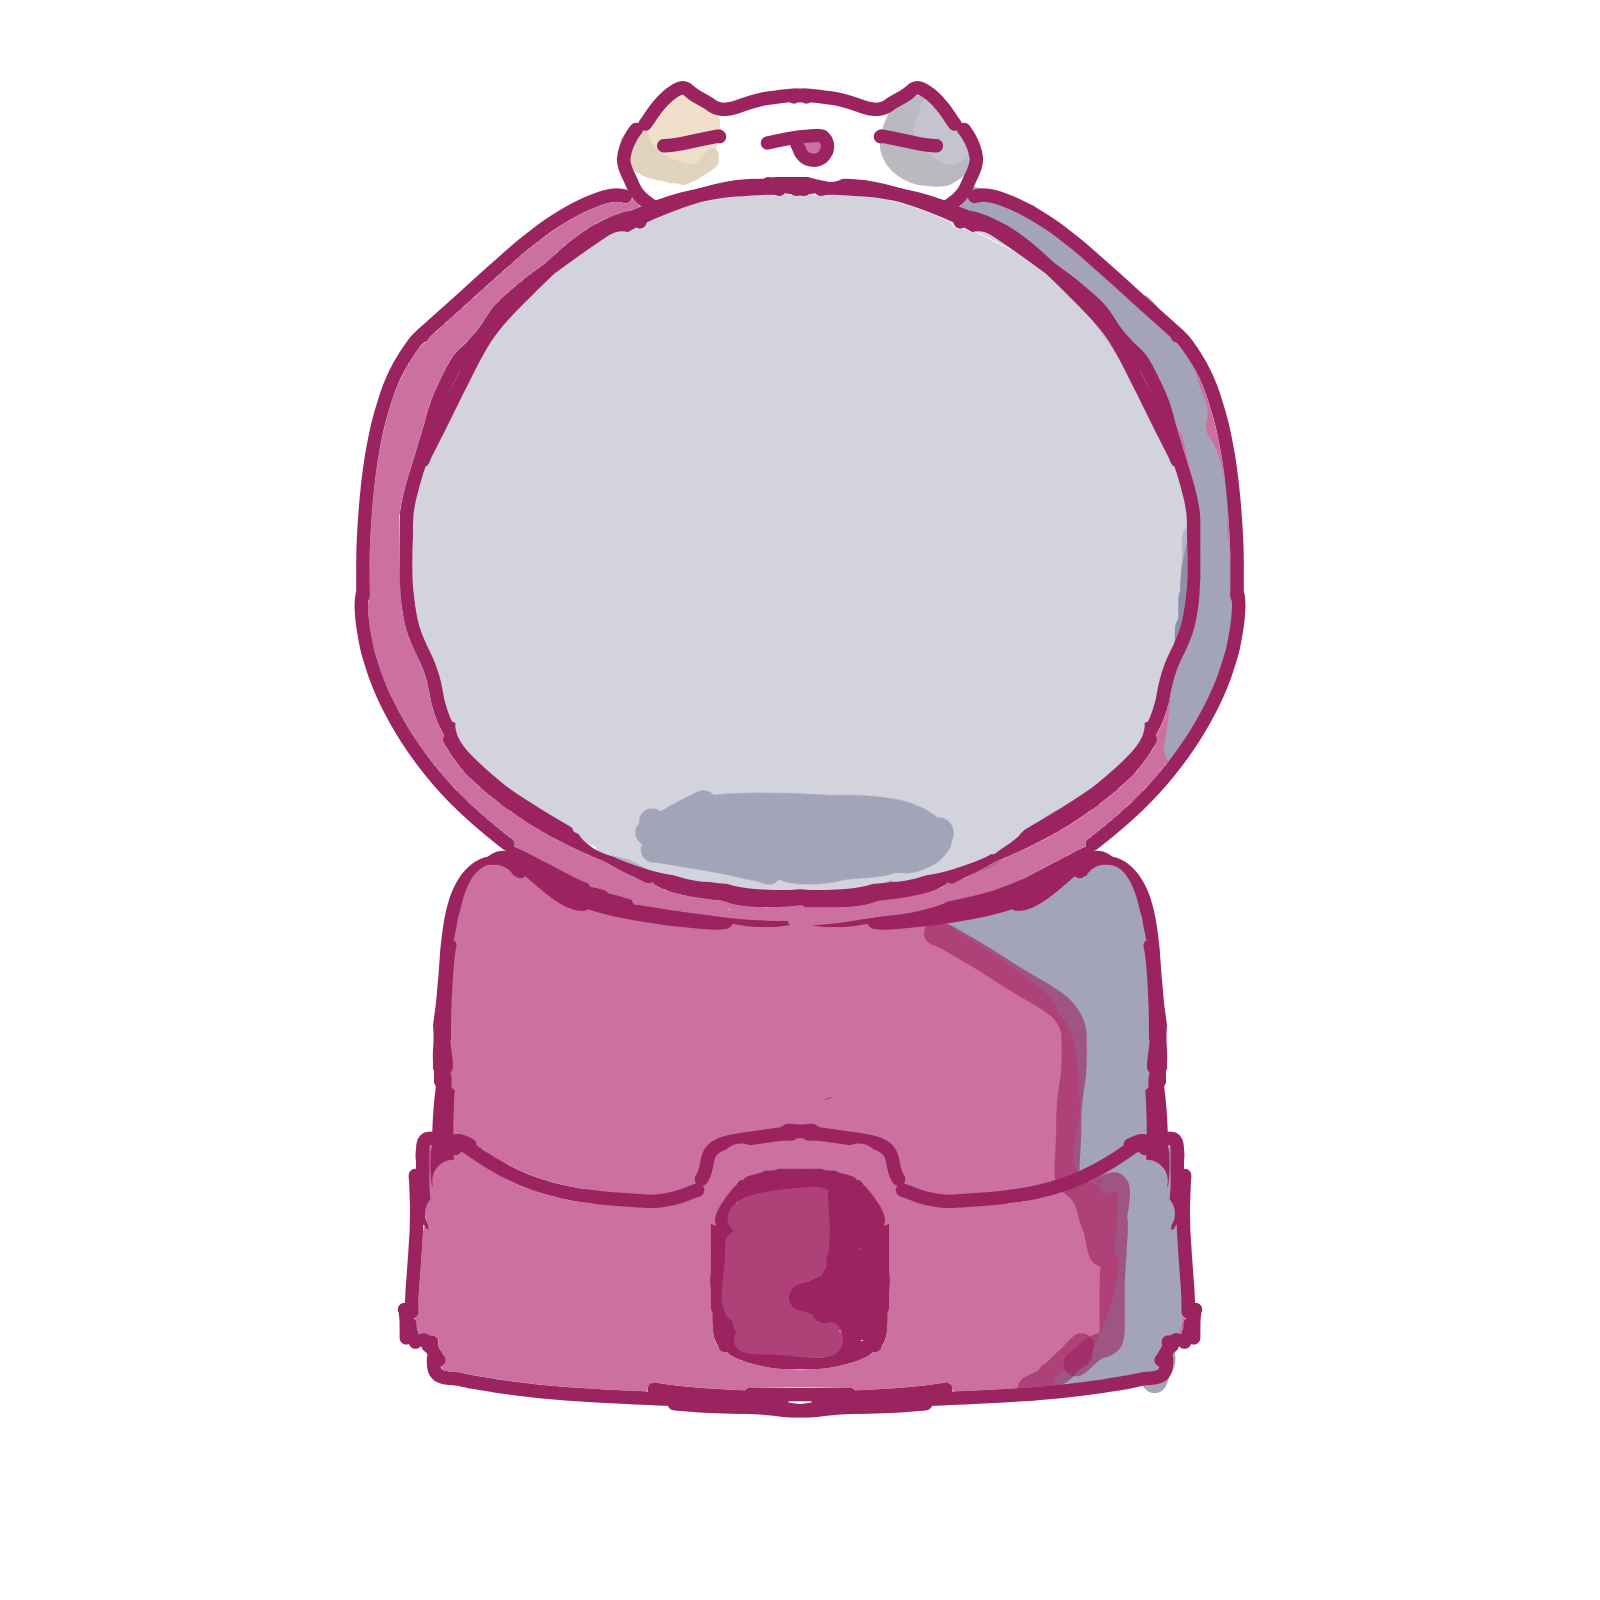
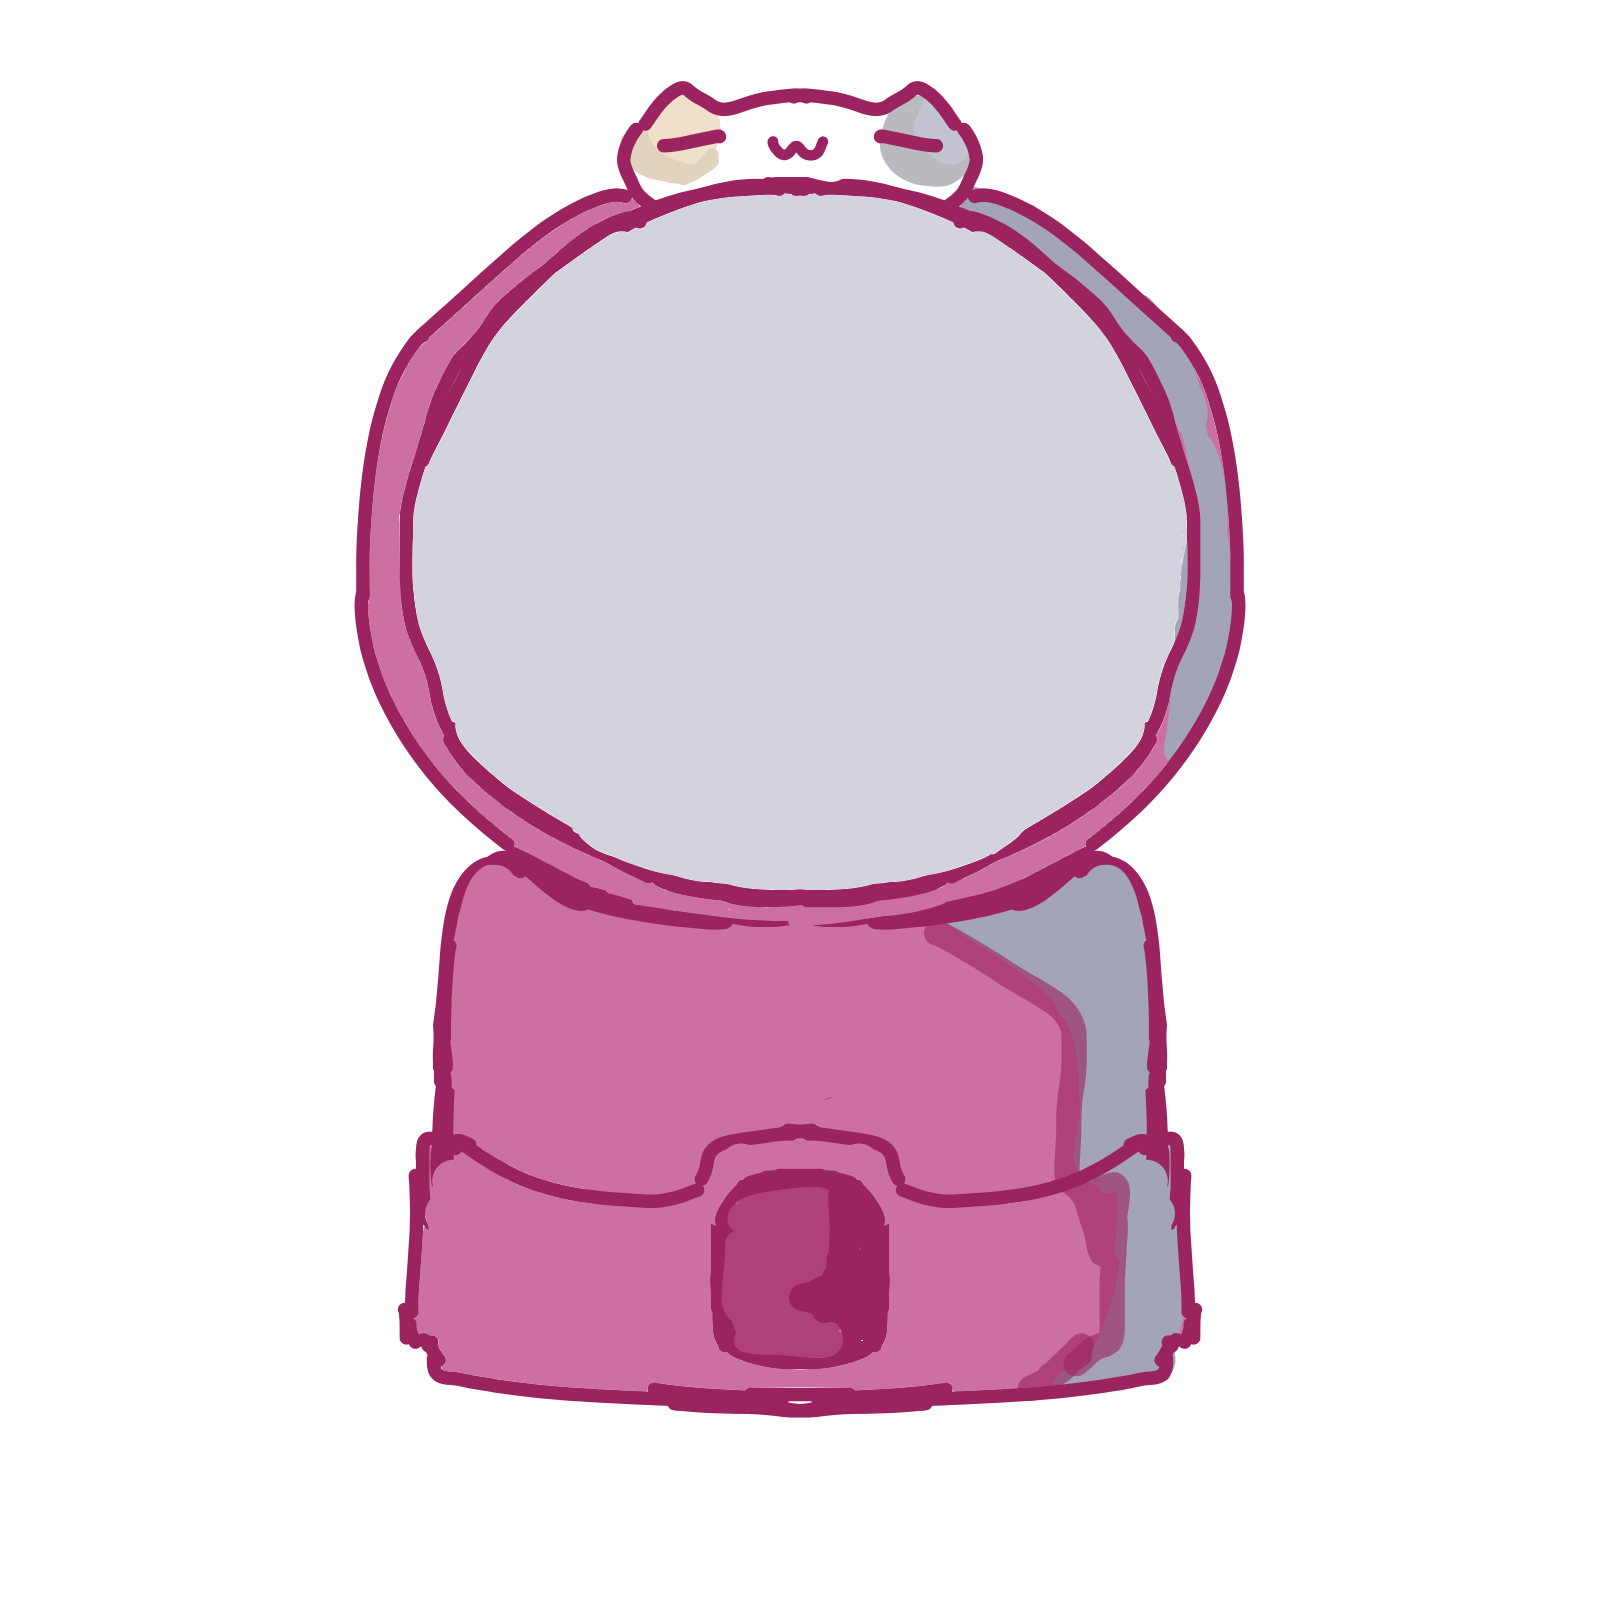
capsule animation
custom UI update

Changed region(s): [[0.375, 0.4688, 0.5938, 0.5625], [0.4688, 0.0625, 0.5312, 0.125]]

diff --git a/src/pages/RollPage.jsx b/src/pages/RollPage.jsx
@@ -1,28 +1,34 @@
 //holds current roll logic
 {/*used to remember things between renders instead of forgetting them instantly*/}
-import {useState} from 'react' 
+import {useState, useEffect} from 'react' 
 import {CREATURES} from '../creatures'
 //import custom UI
 import catHungry from '../assets/cat-hungry.png'
 import catFed from '../assets/cat-fed.png'
 import handleUp from '../assets/handle-up.png'
 import handleTurned from '../assets/handle-turned.png'
+import capsulesFrame1 from '../assets/capsules-1.png'
+import capsulesFrame2 from '../assets/capsules-2.png'
+import capsulesFrame3 from '../assets/capsules-3.png'
 
 function RollPage({ addToCollection, pullsAvailable, spendPull, totalMinutesCoded, canClaimDaily, claimDailyBonus }) {
   const [stage, setStage] = useState('idle') //rolling gachapon granular state: idle → coin-inserted → twisting → capsule-dropped → capsule-shaking → capsule-open → revealed
   const [selectedCreature, setSelectedCreature] = useState(null)
+  const [ballFrame, setBallFrame] = useState(0) //current frame of the shaking capsule animation
+    //shake capsules
+    const CAPSULE_FRAMES = [capsulesFrame1, capsulesFrame2, capsulesFrame3]
 
-  /*gachapon balls
-  const [balls] = useState(() => {
-    const colors = ['#e74c3c', '#3498db', '#f1c40f', '#2ecc71', '#9b59b6', '#e67e22']
-    return Array.from({ length: 24 }, (_, i) => ({
-      id: i,
-      color: colors[Math.floor(Math.random() * colors.length)],
-      top: Math.random() * 80,
-      left: Math.random() * 80,
-      size: 20 + Math.random() * 16,
-    }))
-  })*/
+    //cycles frames while shaking
+    useEffect(() => {
+      if (stage !== 'twisting' && stage !== 'capsule-shaking') return
+
+      const interval = setInterval(() => {
+        setBallFrame((prev) => (prev + 1) % CAPSULE_FRAMES.length)
+      }, 150) // swap frame every 150ms — tune for shake speed
+
+      return () => clearInterval(interval)
+    }, [stage])
+
 
 {/* function that handles the gacha roll, picks a random index into the CREATURES array and calls setSelectedCreature, triggering react to update the UI with new value*/}
     function handleRoll() {
@@ -72,9 +78,7 @@ function RollPage({ addToCollection, pullsAvailable, spendPull, totalMinutesCode
       <div className="machine-dome">
         {/*gachapon balls, positioned to show through the transparent glass on the machine art*/}
         <div className="balls-layer">
-          <div className="dome-ball" style={{ background: '#e74c3c', top: '25%', left: '35%' }} />
-          <div className="dome-ball" style={{ background: '#3498db', top: '30%', left: '50%' }} />
-          <div className="dome-ball" style={{ background: '#f1c40f', top: '35%', left: '42%' }} />
+          <img src={CAPSULE_FRAMES[ballFrame]} className="capsules-image" alt="" />
         </div>
 
         <div className="gachapon-machine">
@@ -126,6 +130,6 @@ function RollPage({ addToCollection, pullsAvailable, spendPull, totalMinutesCode
       </div> {/*close machine dome div*/}
     </div>
   )//close return
-}
+}//close RollPage function
 
 export default RollPage

diff --git a/src/App.css b/src/App.css
@@ -213,9 +213,8 @@ h1 {
 
 .result-card-overlay {
   position: absolute;
-  top: 110%;
-  left: 50%;
-  transform: translate(-50%, -50%);
+  top: 80%;
+  left: 37%;
   z-index: 2;
   background: rgba(255, 255, 255, 0.95);
   padding: 16px;
@@ -389,4 +388,14 @@ h1 {
   height: 24px;
   border-radius: 50%;
   box-shadow: inset -2px -2px 4px rgba(0,0,0,0.25);
+}
+
+/*capsule shaking animation*/
+.capsules-image {
+  position: absolute;
+  top: 0;
+  left: 0;
+  width: 100%;
+  height: 100%;
+  object-fit: contain;
 }